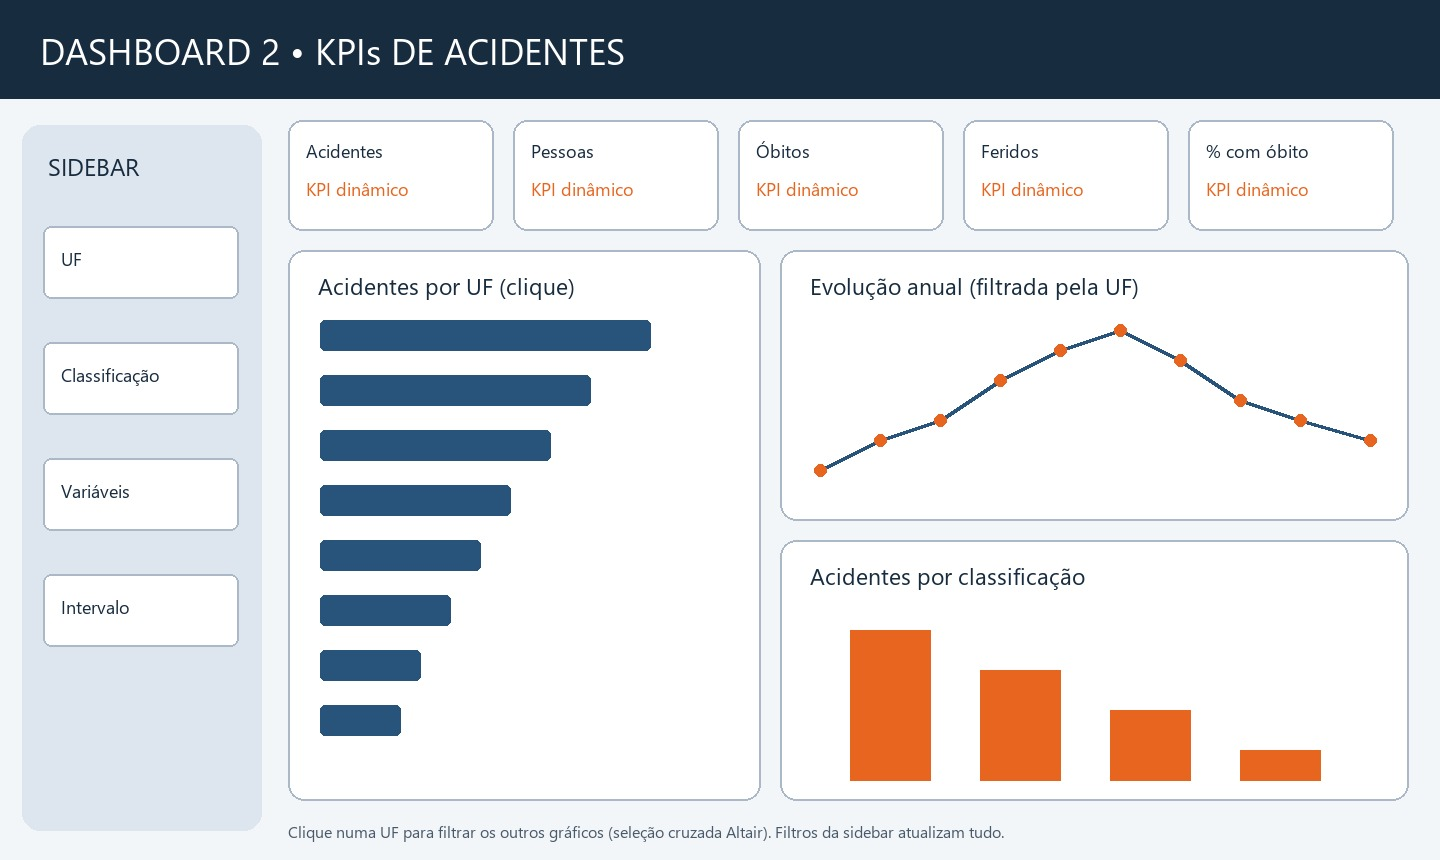
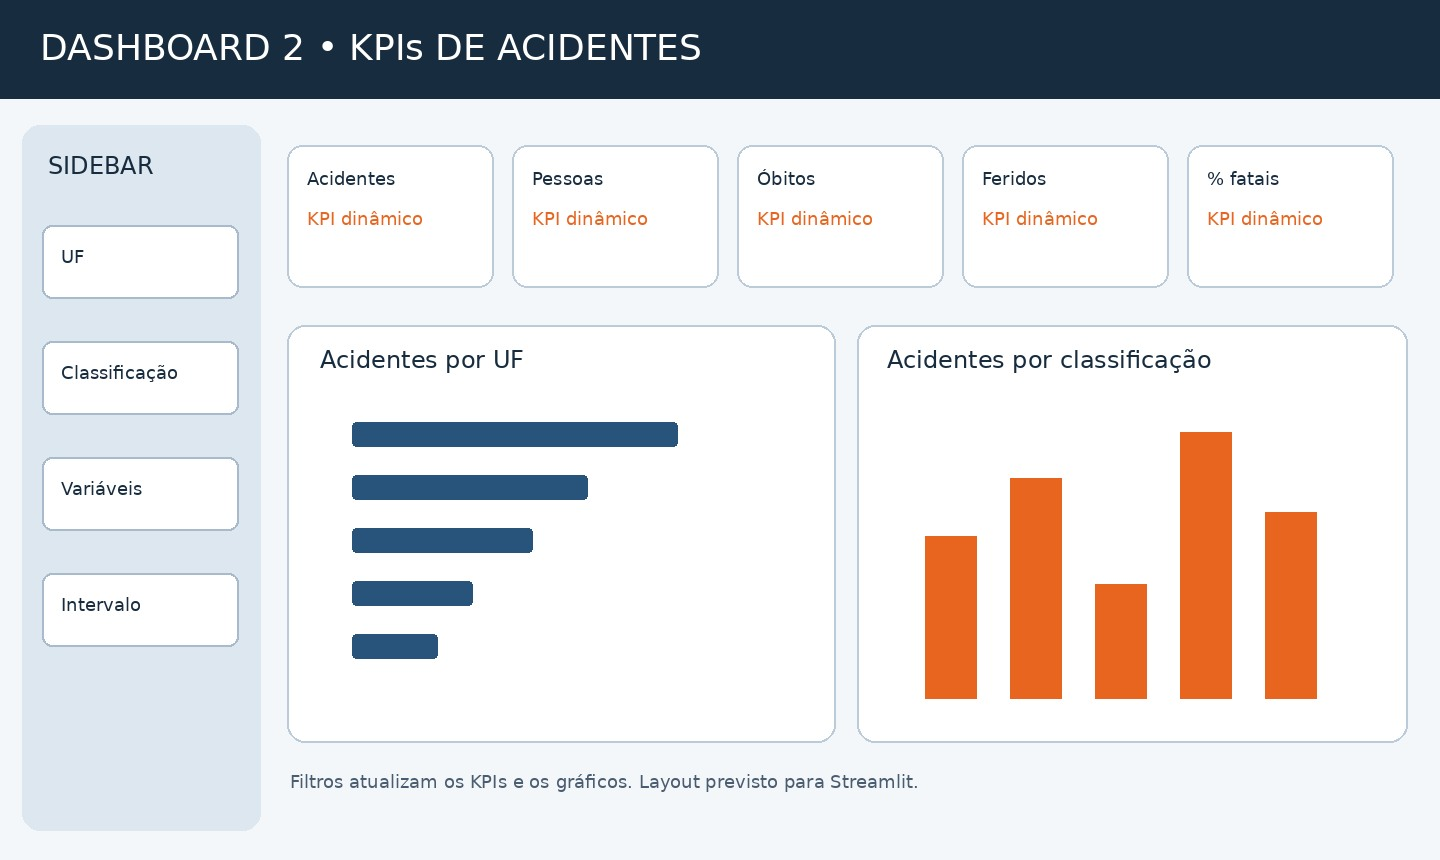
Declaracao de IA detalhada; restaura justificativa e rascunho 2 originais
Remove do app e da justificativa os textos de interpretacao escritos pela IA.

diff --git a/app.py b/app.py
@@ -156,8 +156,7 @@ with tab1:
 
     with st.expander("Estatísticas descritivas e interpretação"):
         st.dataframe(filtrado[quant].describe().T.round(2), width="stretch")
-        st.caption("Correlação não implica causalidade. As variáveis são contagens por acidente, com forte assimetria "
-                   "(muitos zeros); por isso o Spearman é oferecido como alternativa ao Pearson. "
+        st.caption("Correlação não implica causalidade. Eventos raros e valores extremos foram mantidos nos indicadores. "
                    "Nos histogramas, a cauda rara (acima do percentil 99,5) fica agrupada na última barra (N+).")
 
     with st.expander("Estatísticas descritivas e interpretação"):
@@ -168,9 +167,8 @@ with tab1:
 # ----------------------------- Dashboard 2 -----------------------------
 with tab2:
     st.subheader("Indicadores de frequência e gravidade")
-    st.markdown("**Público-alvo:** gestores e equipes de segurança viária e planejamento (PRF, DNIT e "
-                "secretarias estaduais), que precisam decidir **onde** e **quando** priorizar fiscalização "
-                "e prevenção.")
+    # Público-alvo conforme entregas/justificativa-metricas.md
+    st.markdown("**Público-alvo:** gestores de segurança viária, analistas de dados e equipes de planejamento.")
     area_kpis = st.container()  # os KPIs são desenhados depois, já considerando o clique no gráfico
     st.markdown("**Clique em uma UF** para filtrar os KPIs e os outros gráficos "
                 "(Shift + clique seleciona várias; clique duplo limpa).")
@@ -258,7 +256,7 @@ with tab2:
                    "Não representa risco por quilômetro rodado.")
 
     st.markdown("**Interpretação**: contagens absolutas descrevem o volume observado, não a probabilidade "
-                "individual de acidente. A proporção de acidentes com óbito ajuda a comparar gravidade entre recortes.")
+                "individual de acidente.")
 
 with st.expander("🔎 Conferir registros e qualidade dos dados"):
     st.write(f"Linhas filtradas: {formatar(len(filtrado))} | Variáveis quantitativas disponíveis: {len(quant)}")

diff --git a/prompts/declaracao-uso-ia.md b/prompts/declaracao-uso-ia.md
@@ -5,33 +5,56 @@
 
 ## Ferramenta
 
-- **Aulas 21 e 22:** ChatGPT (OpenAI).
-- **Aula 23:** Claude Code (Anthropic, modelo Claude Opus 5.5), com a skill oficial `developing-with-streamlit`, que vem junto com o pacote `streamlit`.
+| Etapa | Ferramenta |
+|---|---|
+| Aulas 21 e 22 | ChatGPT (OpenAI) |
+| Aula 23 (finalização e deploy) | Claude Code (Anthropic, modelo Claude Opus 5.5), com a Skill oficial do Streamlit `developing-with-streamlit` (instalada junto com o pacote `streamlit`) |
+
+## O que foi feito por mim e o que foi feito com IA
+
+**Feito por mim, com apoio do ChatGPT (Aulas 21 e 22):**
+- EDA original (`notebooks/eda.ipynb`), sem alterações nesta entrega.
+- Escolha das **5 métricas do Dashboard 2** (acidentes registrados, pessoas envolvidas, óbitos, feridos e % de acidentes com óbito) e o texto de `entregas/justificativa-metricas.md`. O ChatGPT ajudou a redigir a documentação.
+- Primeira versão do `app.py`: sidebar com filtros, duas abas, matriz de correlação, histograma, os 5 KPIs e os gráficos de acidentes por UF e por classificação.
+- `entregas/rascunho-dashboard2.jpg` (rascunho da segunda aba, feito com apoio do ChatGPT), identidade visual (`.streamlit/config.toml`) e o script de download `scripts/preparar_dados.py`.
+
+**Feito pelo Claude Code (Aula 23):**
+- **Dados:** ajuste do `scripts/preparar_dados.py` e células finais de `notebooks/eda-com-downloads.ipynb`. O texto `(null)` vira ausente, o ano é extraído de `id_unico`, a coluna `feridos` sai (é sempre `feridos_leves + feridos_graves`) e o dado tratado é salvo em Parquet, porque o CSV passa do limite de 100 MB do GitHub.
+- **Código:** `src/data_loader.py` e reescrita do `app.py` para o padrão do repositório-modelo. Dashboard 1 em Altair, com um histograma por variável e opção Pearson/Spearman. Dashboard 2 com seleção cruzada: o clique numa UF filtra os gráficos e os KPIs.
+- **Dois gráficos do Dashboard 2 sugeridos pelo Claude Code:** "Evolução anual dos acidentes" e "% de acidentes com óbito por fase do dia". Os outros dois (UF e classificação) já eram meus.
+- **Rascunho do Dashboard 1:** `entregas/rascunho-dashboard1.jpg` foi gerado pelo Claude Code a partir do layout que já existia no app.
+- **Entrega:** README, estrutura de pastas do modelo, testes, publicação no GitHub e deploy no Streamlit Community Cloud.
+
+**O que a IA não fez:** não escolheu as métricas do Dashboard 2 e não escreveu a justificativa delas. Os trechos de interpretação dos dados que o Claude Code chegou a escrever foram removidos (ver "Rejeitado").
 
 ## Prompt usado
 
-**Aulas 21 e 22 (ChatGPT):** pedidos para estruturar o `app.py` em Streamlit a partir do rascunho do layout (sidebar com filtros, matriz de correlação, histograma), propor KPIs para o Dashboard 2 e redigir a justificativa das métricas. O template de prompt preenchido para este projeto está em [layout-skeleton-prompt.md](layout-skeleton-prompt.md).
+**ChatGPT (Aulas 21 e 22):** pedidos para estruturar o `app.py` a partir do layout planejado (sidebar com filtros, correlação e histograma), montar os indicadores, documentar as métricas e fazer o rascunho da segunda aba.
 
-**Aula 23 (Claude Code):** enviei os PDFs das Aulas 21, 22 e 23 e os arquivos do projeto, com os pedidos:
+**Claude Code (Aula 23):** enviei os PDFs das Aulas 21 a 23 e os arquivos do projeto, com os pedidos:
 
 > "preciso que vc faça oq ta se pedindo passo a passo, eu ja comecei"
 
 > "faca tudo pra mim sem precisar pedi permissão"
 
-Depois pedi para conferir o repositório-modelo da professora (`mfal-school/AVD-20262-pratica-streamlit`) e ajustar o projeto ao `ROTEIRO.md`.
+Depois pedi para seguir o repositório-modelo da professora (`mfal-school/AVD-20262-pratica-streamlit`), conferir o checklist final da atividade e manter tudo dentro das regras de uso de IA.
 
 ## O que foi aceito, modificado ou rejeitado e por quê
 
 - **Aceito:**
-  - organização em sidebar + duas abas (`st.tabs`), uso de `@st.cache_data` em `src/data_loader.py` e indicadores recalculados a partir dos filtros;
-  - Dashboard 2 em Altair com seleção cruzada: clicar numa UF filtra os outros gráficos e, via `on_select="rerun"`, também os KPIs (exemplo 3 do `ALTAIR-CROSSFILTER.md`);
-  - tratamento do dataset: o texto `(null)` da base passa a valor ausente, o ano é extraído de `id_unico` e a coluna `feridos` é removida por ser sempre `feridos_leves + feridos_graves` (o app recalcula).
+  - organização em sidebar + duas abas, `@st.cache_data` em `src/data_loader.py` e indicadores recalculados a partir dos filtros;
+  - Dashboard 1 em Altair (preferível segundo o roteiro), com heatmap e um histograma por variável avaliada;
+  - Dashboard 2 com seleção cruzada em Altair, seguindo o exemplo 3 do `ALTAIR-CROSSFILTER.md`;
+  - dado tratado em Parquet, alternativa prevista no README do modelo para arquivos acima de 100 MB.
 - **Modificado:**
-  - o dado tratado é versionado em **Parquet** (`data/clean/dataset.parquet`, ~7 MB) e não em CSV: o CSV tratado tem ~104 MB, acima do limite de 100 MB do GitHub, e ocuparia ~600 MB de memória no Streamlit Cloud (limite de ~1 GB). O README do modelo prevê essa alternativa;
-  - o Dashboard 1 saiu do Plotly e passou para o Altair, que o roteiro indica como preferível;
-  - o histograma mostra uma barra por valor (as variáveis são contagens) e junta a cauda rara numa barra "N+", porque com faixas automáticas quase tudo caía na primeira barra.
+  - o público-alvo exibido no Dashboard 2 usa o mesmo texto da minha justificativa das métricas;
+  - os dois gráficos sugeridos pelo Claude Code foram mantidos para completar os 3 visuais mínimos do Dashboard 2.
 - **Rejeitado:**
-  - mandar os ~1,85 milhão de linhas direto para o Altair: os gráficos recebem tabelas já agregadas no pandas, para o app continuar rápido;
+  - trechos em que o Claude Code interpretava os dados por mim, como a explicação da queda de acidentes após 2015 e a justificativa dos gráficos. Foram removidos, e a `justificativa-metricas.md` voltou a ser a minha versão;
+  - o rascunho do Dashboard 2 redesenhado pelo Claude Code: voltei ao meu original;
+  - um template de prompt preenchido pela IA como se eu o tivesse usado: o arquivo voltou ao modelo em branco;
   - colocar o Claude como coautor dos commits.
 
-**Validação:** o app foi executado com a base completa (1.851.865 registros). Testei 0, 1 e 2+ variáveis na correlação, Pearson e Spearman, filtros por período, UF, classificação e intervalo, e o clique numa UF no Dashboard 2. Os KPIs foram conferidos com cálculos diretos em pandas (ex.: PE = 74.044 acidentes, 6,3% com óbito).
+## Validação
+
+O Claude Code executou o app com a base completa (1.851.865 registros) e testou os filtros, as combinações de variáveis (0, 1 e várias) e o clique nos gráficos. Os KPIs foram conferidos com cálculos diretos em pandas (ex.: PE = 74.044 acidentes, 6,3% com óbito).

diff --git a/prompts/layout-skeleton-prompt.md b/prompts/layout-skeleton-prompt.md
@@ -4,21 +4,18 @@ Preencha cada bloco e envie à ferramenta de IA.
 
 ## Contexto
 
-Sou aluno de Análise e Visualização de Dados (CESAR School, 2026.2). Projeto: dois dashboards em Streamlit a partir da minha EDA de acidentes em rodovias federais brasileiras (PRF/Kaggle, 2007–2020, ~1,85 milhão de registros). O Dashboard 1 mostra correlação e distribuição das variáveis quantitativas; o Dashboard 2 mostra KPIs de frequência e gravidade.
+<!-- Quem você é, qual a disciplina/projeto, qual o dataset e o objetivo do dashboard. -->
 
 ## Entrada
 
-- Rascunhos: `entregas/rascunho-dashboard1.jpg` e `entregas/rascunho-dashboard2.jpg` (anexados).
-- Colunas do dataset tratado: `ano`, `uf`, `classificacao_acidente`, `fase_dia`, `condicao_metereologica`, `pessoas`, `mortos`, `feridos_leves`, `feridos_graves`, `ilesos`, `ignorados`, `veiculos`.
-- Perguntas: como as contagens de vítimas se relacionam entre si? Como estão distribuídas? Onde se concentram os acidentes e qual a proporção de acidentes com óbito?
-- Layout: sidebar à esquerda com filtros (período, UF, classificação, variáveis, intervalo); aba 1 com heatmap de correlação e histograma lado a lado; aba 2 com 5 métricas no topo e gráficos abaixo.
+<!-- Anexe a imagem do rascunho e cite o caminho dela no repositório (ex.: entregas/rascunho-dashboard1.jpg). Informe também as colunas do dataset e as perguntas que o dashboard deve responder. -->
+
+<!-- Opcional, se a ferramenta de IA não aceitar imagem ou interpretar mal o rascunho: descreva o layout em poucas linhas (ex.: sidebar à esquerda com 2 filtros; topo com 3 métricas; abaixo, 2 gráficos lado a lado). -->
 
 ## Restrições
 
-- Streamlit + Altair; editar só o `app.py`; carregar dados via `src/data_loader.py`.
-- Gerar só o esqueleto estrutural, com placeholders no lugar dos gráficos.
-- Não usar caminhos absolutos nem CSS customizado.
+<!-- Regras que a resposta deve respeitar: biblioteca (Streamlit, plotly), arquivos a editar (app.py), carregar dados via src/data_loader.py, o que NÃO deve ser feito. -->
 
 ## Formato de saída
 
-Um único `app.py` completo, pronto para `streamlit run app.py`, com comentários `# TODO` onde entram os gráficos.
+<!-- Como você quer a resposta: código completo do app.py, só o esqueleto com comentários # TODO, explicação breve de cada seção, etc. -->

diff --git a/entregas/justificativa-metricas.md b/entregas/justificativa-metricas.md
@@ -1,7 +1,7 @@
 # Justificativa das métricas — Dashboard 2
 
 **Tema:** Acidentes em rodovias federais brasileiras (2007–2020).  
-**Público-alvo geral:** gestores e equipes de segurança viária e planejamento (PRF, DNIT e secretarias estaduais), que precisam decidir onde e quando priorizar fiscalização e prevenção. Esse público aparece descrito no topo do Dashboard 2.  
+**Público-alvo geral:** gestores de segurança viária, analistas de dados e equipes de planejamento.  
 **Cuidados:** todos os indicadores respeitam os filtros; a base descreve acidentes registrados e não fornece volume de tráfego ou distância percorrida. Portanto, contagens não são medidas de risco.
 
 ## 1. Acidentes registrados
@@ -43,16 +43,3 @@
 - **Público-alvo:** analistas e gestores.
 - **Decisão apoiada:** identificar recortes que merecem investigação sobre severidade.
 - **O que comunica:** percentual *entre os acidentes registrados*, não o risco de morrer ao viajar.
-
-## Visuais do Dashboard 2 (além das métricas)
-
-Feitos em Altair com **seleção cruzada**: clicar numa UF filtra os outros três gráficos e os 5 KPIs acima deles (Shift + clique seleciona várias; clique duplo limpa). Todos também respeitam os filtros da sidebar (período, UF, classificação e intervalo).
-
-| Visual | Pergunta que responde | Decisão apoiada |
-|---|---|---|
-| Acidentes por UF (barras horizontais) | Onde se concentram os registros? | Escolher estados para aprofundar a análise |
-| Evolução anual dos acidentes (linha) | O volume subiu ou caiu entre 2007 e 2020? | Avaliar tendência e mudanças de registro ao longo do tempo |
-| Acidentes por classificação (barras) | Qual a proporção entre sem vítimas, feridos e fatais? | Dimensionar a gravidade do recorte escolhido |
-| % de acidentes com óbito por fase do dia (barras) | Acidentes à noite são proporcionalmente mais graves? | Priorizar ações de visibilidade/fiscalização noturna |
-
-**Observação sobre o período:** a queda a partir de 2015 pode refletir mudança na forma de registro da PRF, não apenas redução real de acidentes — por isso o gráfico deve ser lido junto com a EDA.
